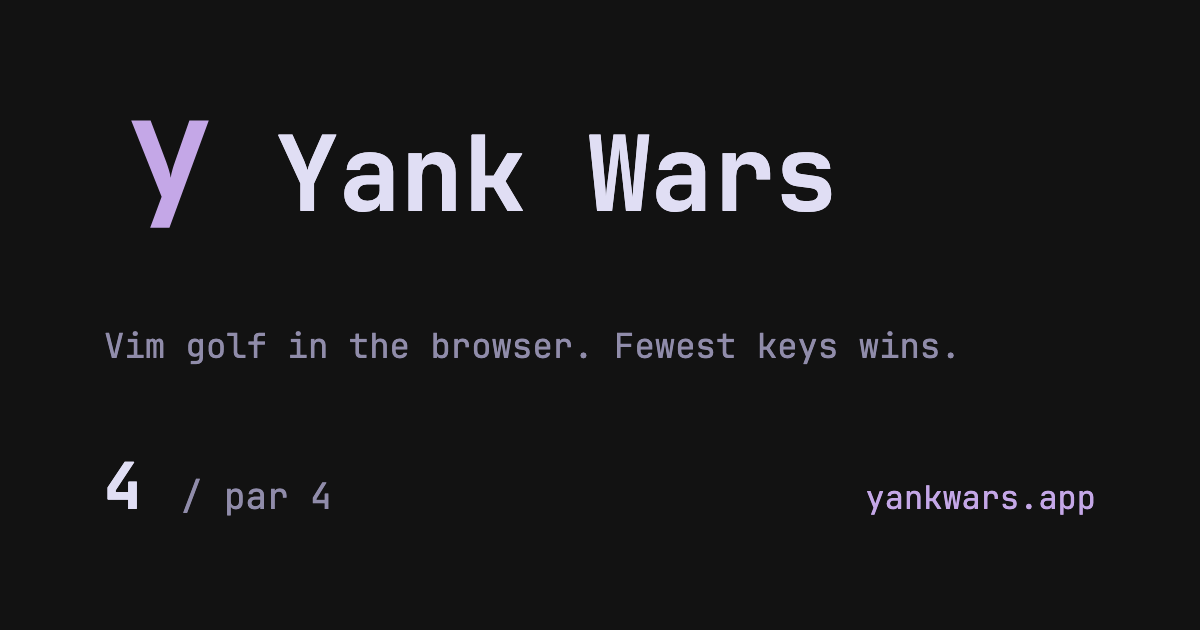
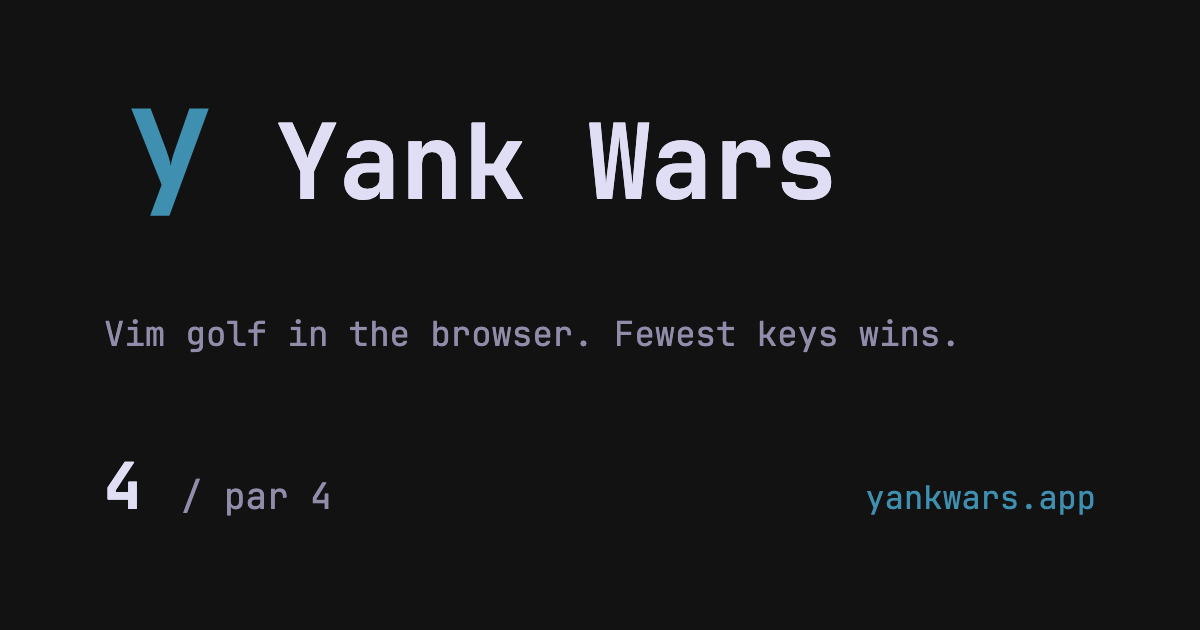
1.2.4: pine accent, foam success, framed page

diff --git a/apps/yank-wars/apps/web/src/lsel/tokens.css b/apps/yank-wars/apps/web/src/lsel/tokens.css
@@ -25,10 +25,10 @@
   --muted: #6e6a86;
   --subtle: #908caa;
   --text: #e0def4;
-  --accent: #c4a7e7;
+  --accent: #3e8fb0;
   --error: #eb6f92;
   --warning: #f6c177;
-  --success: #3e8fb0;
+  --success: #9ccfd8;
   --select: #ea9a97;
   --term-0: #393552;
   --term-1: #eb6f92;
@@ -87,6 +87,19 @@ body {
   font-family: var(--font);
   font-size: var(--text-sm);
   line-height: var(--leading);
+}
+
+/* A page's content sits in main, in a thin frame; the app sets max-width and padding, never margin. */
+main {
+  width: calc(100% - 2 * var(--space-5));
+  margin: var(--space-5) auto;
+  border: var(--border);
+}
+@media (max-width: 600px) {
+  main {
+    width: calc(100% - 2 * var(--space-2));
+    margin: var(--space-2) auto;
+  }
 }
 
 /* The common elements, styled once so every app looks the same; components may extend, not restyle. */

diff --git a/apps/yank-wars/apps/web/brand/og.html b/apps/yank-wars/apps/web/brand/og.html
@@ -9,7 +9,7 @@
         width: 1200px;
         height: 630px;
       }
-      main {
+      .card {
         height: 100%;
         padding: 96px 104px;
         display: flex;
@@ -56,7 +56,7 @@
     </style>
   </head>
   <body>
-    <main>
+    <div class="card">
       <div class="top">
         <img src="../public/favicon.svg" alt="" />
         <h1>Yank Wars</h1>
@@ -66,6 +66,6 @@
         <div class="score">4 <span>/ par 4</span></div>
         <div class="url">yankwars.app</div>
       </div>
-    </main>
+    </div>
   </body>
 </html>

diff --git a/apps/yank-wars/apps/web/src/components/NeedsKeyboard.svelte b/apps/yank-wars/apps/web/src/components/NeedsKeyboard.svelte
@@ -21,7 +21,6 @@ let { onDismiss }: Props = $props();
 <style>
   .needs-keyboard {
     max-width: 420px;
-    margin: 0 auto;
     padding: 64px 24px;
     text-align: center;
   }

diff --git a/apps/yank-wars/apps/web/src/components/PuzzleList.svelte b/apps/yank-wars/apps/web/src/components/PuzzleList.svelte
@@ -204,7 +204,6 @@ function onkeydown(e: KeyboardEvent) {
 <style>
   .list {
     max-width: 760px;
-    margin: 0 auto;
     padding: 48px 24px;
   }
   .tagline {
